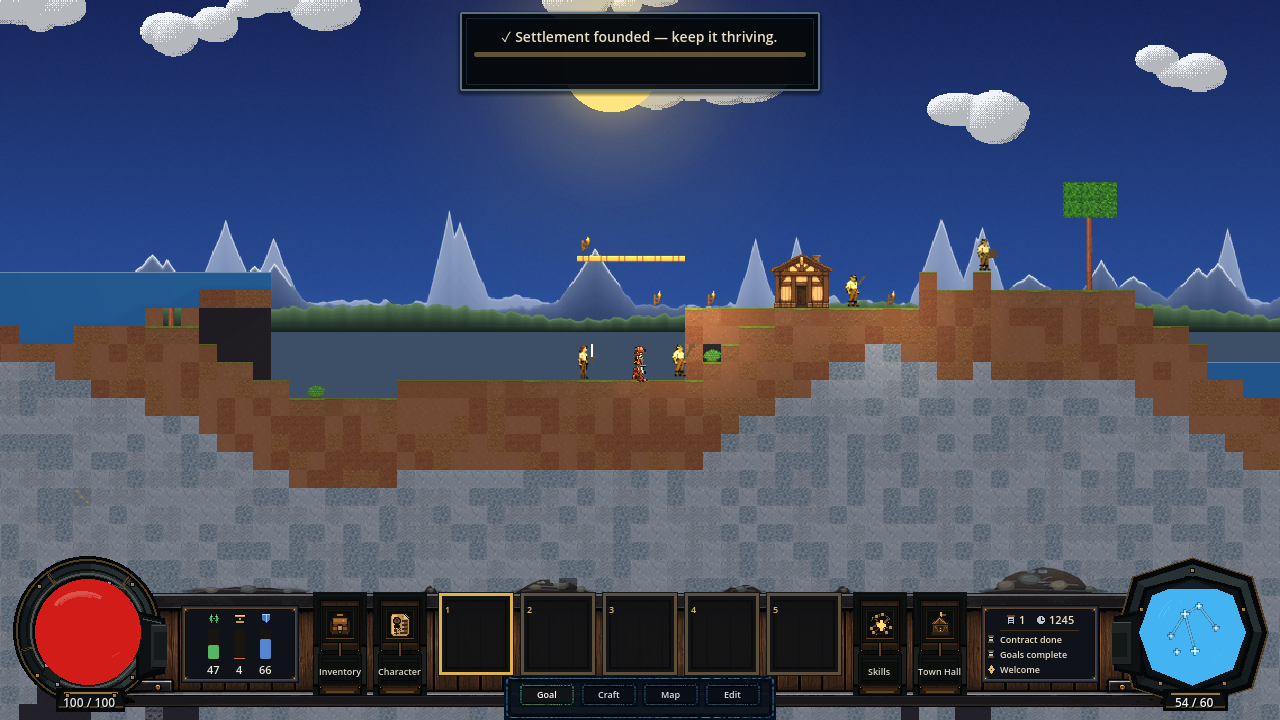
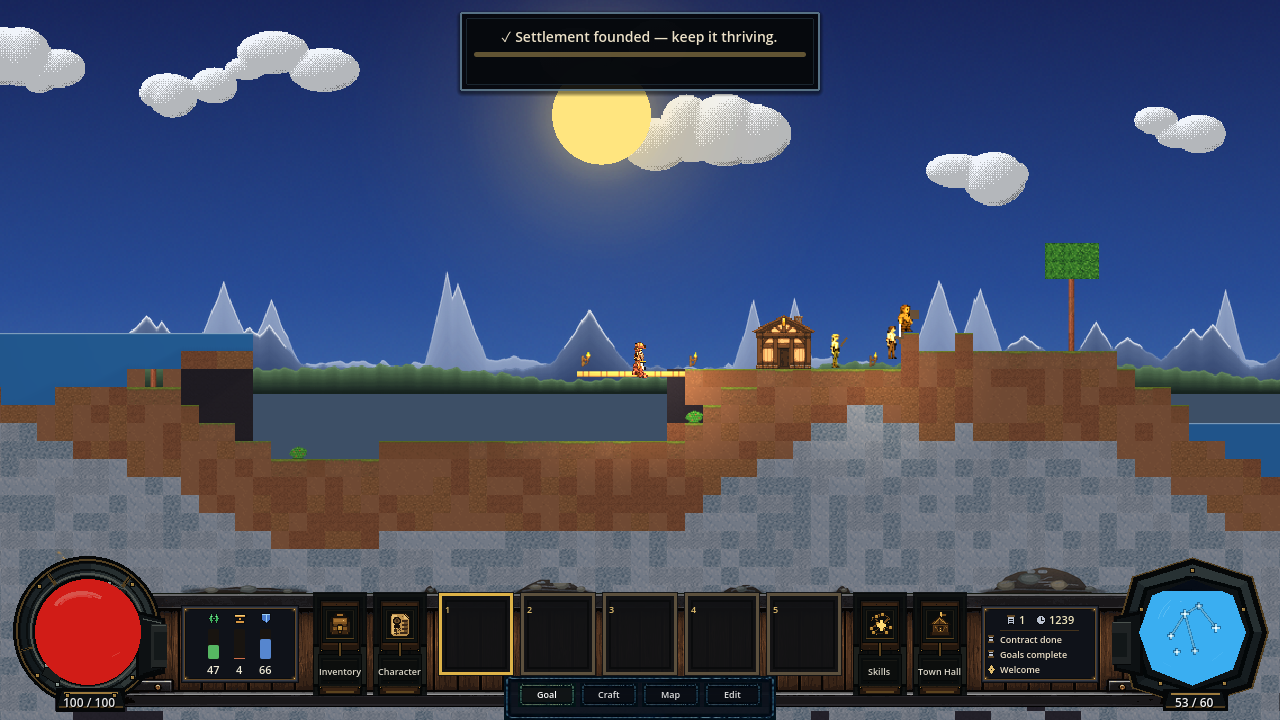
docs: remove stale HUD media and tighten closeout evidence (slice 5.1)
Media-hygiene follow-up to the slice 5 closeout. Documentation/media only —
no gameplay, balance, crafting, save, or world code changes.

- Delete the obsolete orphan screenshot 43_dock_no_persistent_summary.png
  (and its tracked .import). It has no consumer or tour generator and still
  depicts interfaces that no longer exist (floating Crest/Events, the old
  three-button tray, the contextual Town Hall popup).
- Correct the perception-flake known-issues entry: it is a rare intermittent
  assertion failure in the windowed source smoke whose exact entity-level cause
  is unresolved; the check now emits a per-entity SMOKE_FIELD_BREAKDOWN on
  failure, and no matching player-visible fog-of-war or Resonance regression has
  been reproduced. Drops the earlier unproven "freed/re-hidden a frame early"
  root-cause phrasing. Wiki HTML mirror regenerated from the Markdown authority.
- Remove the redundant published craft screenshot 15b_craft_from_button.png and
  its README row: it is effectively the same composition as 15_crafting.png, and
  a static image cannot prove which input opened the panel (r07_craft_command_chip
  is the real evidence). 15_crafting.png stays canonical; the focused QA tour may
  still emit local craft_from_button_* evidence.
- Regenerate 38_wooden_platform.png with a clearer composition: the player stands
  on a torch-lit plank bridging a dug gap (reads as an intentional walkway, not a
[…]

diff --git a/docs/wiki/known_issues.html b/docs/wiki/known_issues.html
@@ -58,7 +58,7 @@
 <h2 id="active-presentation-defects">Active Presentation Defects</h2>
 <div class="table-wrap"><table><thead><tr><th>Surface</th><th>Current behavior</th><th>Gameplay impact</th><th>Next work</th></tr></thead><tbody><tr><td>Pick/axe/sword swing art</td><td>PR-04 gave every tool/weapon a data-driven windup-&gt;impact-&gt;recovery swing aimed at the target (up/down/diagonal). S-07.1b added a generated <strong>sword swing family</strong> (F10, all four sword tiers across every species/variant/phase via <code>scripts/art/gen_tool_swing_frames.py</code>, guarded by <code>s07_sword_swing_frames_authored</code>) so the sword renders authored overlay frames like pick/axe, plus a swing-arc strike FX (guarded by <code>s07_swing_arc_fx</code>) and a modal-scrim taste knob (<code>s07_scrim_strength_knob</code>). The pick/axe swing PNGs remain hand-authored three-phase frames.</td><td>Mining and combat timing are unchanged; any remaining gap is art fidelity, not motion logic.</td><td>Optional: further polish the hand-authored pick/axe frames; the code contract (<code>action_profile</code>, <code>swing_direction</code>) already consumes authored overlays.</td></tr><tr><td>HUD and framed-panel chrome</td><td>The primary dock geometry is stable and runtime content is separated, but current chrome remains provisional. Some framed panel states and automated captures can expose padding, mask, or oversized opaque-region defects. (S-07.1 resolved the modal case: opening a modal now freezes non-modal gameplay input, suppresses the placement-preview ghost, and dims the rest of the HUD behind a scrim.)</td><td>Controls remain functional; affected non-modal views can still look unfinished.</td><td>Replace dock assets through the HUD Asset Replacement Studio; inspect every open-panel combination at target window sizes.</td></tr><tr><td>Calling skill panel</td><td>As of 2026-08-18 the panel is a <strong>constellation star-map</strong>: each skill is a clickable star placed by tier and joined into per-Path constellations (owned stars glow, the next-available ones twinkle, locked stars dim); clicking a star opens the same player-language inspector + Learn button. The earlier no-horizontal-scroll contract still holds (<code>s07_calling_panel_no_hscroll</code>; <code>content_h_scroll_disabled</code>). Inspector text can still read dense.</td><td>Cosmetic; the panel is fully usable and gating/purchase are correct.</td><td>A UI polish pass over inspector text density.</td></tr><tr><td>Character creation at 640×360</td><td>S-07.1b (F9) shipped a responsive compact layout: on a small physical window the shell raises logical type above a documented floor, tightens margins/rows, reflows the live preview beside the form, disables horizontal scroll, and pins Create/Back outside the vertical scroll — while the 1280×720 presentation is unchanged. Guarded by <code>s07_char_create_640_legibility_contract</code>.</td><td>The screen is legible and operable at the small size.</td><td>Resolved; only optional cosmetic refinement remains.</td></tr><tr><td>Town Hall panel</td><td>S-07.1 trimmed the inline instructions, reserved roster height, and reordered the roster above the stockpile/actions. Some settler-roster content can still read busy at small sizes.</td><td>Controls work; the panel is clearer than before.</td><td>Continue density/legibility polish at target window sizes.</td></tr><tr><td>Swing / action-FX art</td><td>Pick/axe/sword swings play a data-driven windup→impact→recovery aimed at the target, now joined by a swing-arc strike FX. The sword has a generated swing family (F10, all species); pick/axe swing frames stay hand-authored.</td><td>Mining/combat timing is unchanged; the gap is art fidelity, not motion logic.</td><td>Optional pick/axe frame polish (D4 art lane); the code contract already consumes authored overlays.</td></tr><tr><td>Light leak through diagonal block seams</td><td>With the perception veil on (the default <code>fog_of_war</code> world rule; also <code>COHERONIA_PERCEPTION=1</code>), underground scenes show <strong>daylight and torch light leaking through 1×1 diagonal block gaps</strong>. This is not the terrain veil — that samples the visibility mask per cell with <code>filter_nearest</code> and is crisp — but the underlying 2D lighting: the sun/moon shadow occluders are per-cell squares that touch only at their corners (so a diagonal seam passes a sliver of daylight), and torches/lava are intentionally <strong>shadowless</strong> (they glow *through* rock so a torch carved into a wall does not self-occlude). The brighter/wider torch + lava tuning made the pre-existing leak more visible.</td><td>Cosmetic; perception/visibility state and gameplay are unaffected.</td><td>Diagonal-corner occluder bridging for the celestial shadows, and/or a selective shadow pass for local emitters; deferred (Perception + Resonance follow-up).</td></tr></tbody></table></div>
 <h2 id="intentional-current-limits">Intentional Current Limits</h2>
-<ul><li>Inventory supports drag-and-drop backpack and dock organization, compatible equipment swaps, and unequipping equipment back to the backpack. The in-engine smoke suite (hundreds of checks) is clean under the <strong>canonical windowed run</strong>; CI is the current pass/fail evidence. (One check, <code>r06_texture_prep_delegates</code>, is renderer-dependent and is skipped under the *headless* display server — a texture-scaling detail with no window — so a headless run reports one skip and no failures.)</li><li>The end-to-end perception check <strong><code>perception_resonance_e2e_through_fog</code></strong> is a known <strong>rare intermittent</strong> under the windowed source smoke: it can transiently report an enemy-visibility miss (a staged entity freed or re-hidden a frame early) and passes on a clean re-run. It is <strong>diagnostic-only</strong> — on failure it emits a per-entity <code>SMOKE_FIELD_BREAKDOWN</code> line — and does not indicate a fog-of-war or Resonance regression. Tracked as known; not claimed fixed.</li><li>Settlers are now individual, persistent NPC workers (farmhand/hauler/repairer/defender) with jobs, stats, ancestry identity, and per-settler work zones, layered over the abstract population authority; deeper social simulation is still planned.</li><li>Enemies use direct walk-and-hop behavior without pathfinding.</li><li>The adaptive score is one authored suite and remains balance-in-progress.</li><li><strong>Calling skills are functional but unbalanced and mechanically compressed.</strong> Every one of the 72 skills is wired to a real hook, but to reach full coverage without new subsystems the harder specified effects were re-themed onto existing scalar channels — so some Paths repeat a channel (e.g. Hearthwright is mostly repair-strength + build-reach; Vanguard is mostly weapon damage), and several names (Executioner, Counterforce, Steel Rhythm, Coordinated Labor, Salvager) no longer match their original flavor. The percentages are also <strong>untuned</strong>: full conditional stacking can reach roughly 4–5× on some channels. This is a known design variance to be resolved by playtesting and value tuning (no new mechanisms), not a correctness defect.</li><li>Current finite maps provide one surface biome; deeper biome/system expansion remains planned work.</li></ul>
+<ul><li>Inventory supports drag-and-drop backpack and dock organization, compatible equipment swaps, and unequipping equipment back to the backpack. The in-engine smoke suite (hundreds of checks) is clean under the <strong>canonical windowed run</strong>; CI is the current pass/fail evidence. (One check, <code>r06_texture_prep_delegates</code>, is renderer-dependent and is skipped under the *headless* display server — a texture-scaling detail with no window — so a headless run reports one skip and no failures.)</li><li>The end-to-end perception check <strong><code>perception_resonance_e2e_through_fog</code></strong> is a known <strong>rare intermittent assertion failure</strong> in the windowed source smoke: it fails occasionally and passes on a clean re-run. The exact entity-level cause is <strong>unresolved</strong> — on failure the check now emits a per-entity <code>SMOKE_FIELD_BREAKDOWN</code> line to aid diagnosis. No matching <strong>player-visible</strong> fog-of-war or Resonance regression has been reproduced. Tracked as known; <strong>not claimed fixed</strong>.</li><li>Settlers are now individual, persistent NPC workers (farmhand/hauler/repairer/defender) with jobs, stats, ancestry identity, and per-settler work zones, layered over the abstract population authority; deeper social simulation is still planned.</li><li>Enemies use direct walk-and-hop behavior without pathfinding.</li><li>The adaptive score is one authored suite and remains balance-in-progress.</li><li><strong>Calling skills are functional but unbalanced and mechanically compressed.</strong> Every one of the 72 skills is wired to a real hook, but to reach full coverage without new subsystems the harder specified effects were re-themed onto existing scalar channels — so some Paths repeat a channel (e.g. Hearthwright is mostly repair-strength + build-reach; Vanguard is mostly weapon damage), and several names (Executioner, Counterforce, Steel Rhythm, Coordinated Labor, Salvager) no longer match their original flavor. The percentages are also <strong>untuned</strong>: full conditional stacking can reach roughly 4–5× on some channels. This is a known design variance to be resolved by playtesting and value tuning (no new mechanisms), not a correctness defect.</li><li>Current finite maps provide one surface biome; deeper biome/system expansion remains planned work.</li></ul>
 <h2 id="resolved-underground-lighting-dark-from-the-surface-2026-08-04">Resolved — Underground Lighting (dark-from-the-surface) — 2026-08-04</h2>
 <p><strong>What it was.</strong> Standing on the surface with the sun up and looking at a mined shaft or cross-section, the underground read <strong>lit</strong> (~100/255 grey rock) instead of dark. The cause was that darkness was a single <strong>global <code>CanvasModulate</code></strong> keyed to the <strong>player&#x27;s</strong> depth: while the player stood on the surface the *entire* canvas — any underground on screen included — was tinted at full daylight, and it only darkened once the *player* descended. It was the ambient model being global, not a light leak.</p>
 <p><strong>Fix (per-column depth shader).</strong> The recommended <code>sky_line</code>/<code>CAVE_FADE_CELLS</code> path was taken (<code>shaders/cave_depth.gdshader</code>). A <code>canvas_item</code> shader now darkens <strong>each fragment</strong> toward <code>CAVE_TINT</code> by *its own* depth below the local sky line, minus the viewer&#x27;s own depth factor — so it only *adds* the darkening the global tint has not already applied at or above the viewer. On the surface the whole underground reads dark; once the player descends the shader contributes nothing extra at the viewer&#x27;s depth (the global tint already handles it), so there is <strong>no double-dimming and no behaviour change for entities</strong>. The depth darkening is <strong>ambient only</strong>: the shader&#x27;s <code>fragment()</code> dims the unlit base, but a matching <code>light()</code> illuminates each tile&#x27;s <strong>true albedo</strong> (the texture, before the depth dim), so a torch/lava/celestial <code>PointLight2D</code> brightens a deep tile <strong>fully regardless of the viewer&#x27;s depth</strong> — a lit pocket below the player, or an underground torch seen from a cave mouth, still reads. (An earlier version had only the <code>fragment()</code> half, so the darkened <code>COLOR</code> also multiplied the light down and suppressed it — see the follow-up below.)</p>

diff --git a/README.md b/README.md
@@ -93,7 +93,7 @@ The in-game **Goals** panel (**O**) walks you through all **seven** objectives f
 | ![A visible farmhand settler harvesting a row of ripe crops](docs/screenshots/16_farmhand.png)<br>*A visible farmhand works the land and stocks the larder* | ![The settler info panel showing name, role, days alive, and stats](docs/screenshots/37_settler_panel.png)<br>*Click any settler to see its name, ancestry, job, and stats* |
 | ![The redesigned responsive crafting recipe-book](docs/screenshots/15_crafting.png)<br>*Open crafting with the **Craft** tray button or **C** — icon-led recipe cards across Hand · Town Hall · Workbench · Furnace · Anvil, with a pinned Craft/Build action* | ![The inventory board with loadout, backpack, and dock](docs/screenshots/03_inventory.png)<br>*Open the inventory with **I** — drag and drop stacks, gear, and the hotbar dock* |
 | ![The Calling skill tree drawn as a clickable star constellation](docs/screenshots/05_skill_tree.png)<br>*Your **Calling** (**K**) — a constellation of tiered skills you click star-by-star, every one wired to a real effect* | ![World creation with size, seed, preset, and rule controls](docs/screenshots/08_world_create.png)<br>*Create a world — size, seed, preset, difficulty, and rule toggles* |
-| ![The crafting panel opened from the Craft command-tray chip](docs/screenshots/15b_craft_from_button.png)<br>*The centered command tray — **Goal · Craft · Map · Edit** — opens Crafting with a click, no shortcut needed* | ![A raised, torch-lit wooden platform walkway in the world](docs/screenshots/38_wooden_platform.png)<br>*The craftable **Wooden Platform** — a one-way plank you jump up through and walk across* |
+| ![The player standing on a wooden platform bridging a gap beside the hall](docs/screenshots/38_wooden_platform.png)<br>*The craftable **Wooden Platform** — a one-way plank you jump up through and walk across* | ![Full-height three-tall doors in a settlement wall](docs/screenshots/34_tall_doors.png)<br>*Full-height doors seal a walled room to raise settlement housing* |
 | ![Underground, a lit room surrounded by the fog-of-war veil](docs/screenshots/40_perception_veil.png)<br>*Fog of war — you see only what's in line of sight; explored terrain lingers as a dim silhouette* | ![A resonance pulse lighting up the town hall and settlers in green across the settlement](docs/screenshots/41_resonance_pulse.png)<br>*The Attunement resonance pulse (**R**) lights up objects of interest — hall & settlers green, enemies red, ore/items gold — with a countdown on the status HUD* |
 
 ### What you can do
@@ -265,7 +265,7 @@ Coheronia is an experiment in disciplined, AI-orchestrated development — every
 
 Dated shipped milestones, newest first (full detail in [`docs/HANDOFF.md`](docs/HANDOFF.md)):
 
-- **2026-08-28 — Crafting recipe-book redesign, Craft in the command tray, and a media/docs closeout.** The unified crafting panel is rebuilt as a **responsive recipe-book**: icon-led recipe cards showing only **Ready / Missing / Locked** on their face (the full shortage list lives in the detail pane and tooltip), and a detail pane that is a single scrolling column above a **pinned Craft/Build action** — so the button, and the panel's own footer, stay on-screen and usable from a full **1280×720** down to a **640×360** viewport. Station navigation spans **Hand · Town Hall · Workbench · Furnace · Anvil**, with Build cards for unbuilt stations. Crafting is now a first-class, discoverable action: the centered command tray reads **Goal · Craft · Map · Edit**, and the new **Craft** chip opens the same panel as the **C** shortcut through one shared toggle — its pressed state tracks every close route (chip, C, Escape, Close). A craftable **Wooden Platform** joins the ladder — a one-way traversal plank you jump up through and stand on. Plus an authored **−12 dB Music-bus calibration** trim and an inventory **dock zero-count reconciliation**. Docs and every gameplay screenshot regenerated against the four-button tray. Windowed source smoke **604/604**, Windows export smoke **598/598**, full verifier gate green. (The rare `perception_resonance_e2e_through_fog` check remains a **known intermittent**, tracked with a per-entity failure breakdown — not fixed here.)
+- **2026-08-28 — Crafting recipe-book redesign, Craft in the command tray, and a media/docs closeout.** The unified crafting panel is rebuilt as a **responsive recipe-book**: icon-led recipe cards showing only **Ready / Missing / Locked** on their face (the full shortage list lives in the detail pane and tooltip), and a detail pane that is a single scrolling column above a **pinned Craft/Build action** — so the button, and the panel's own footer, stay on-screen and usable from a full **1280×720** down to a **640×360** viewport. Station navigation spans **Hand · Town Hall · Workbench · Furnace · Anvil**, with Build cards for unbuilt stations. Crafting is now a first-class, discoverable action: the centered command tray reads **Goal · Craft · Map · Edit**, and the new **Craft** chip opens the same panel as the **C** shortcut through one shared toggle — its pressed state tracks every close route (chip, C, Escape, Close). A craftable **Wooden Platform** joins the ladder — a one-way traversal plank you jump up through and stand on. Plus an authored **−12 dB Music-bus calibration** trim and an inventory **dock zero-count reconciliation**. The published HUD and gameplay gallery was refreshed against the current four-button tray. Windowed source smoke **604/604**, Windows export smoke **598/598**, full verifier gate green. (The rare `perception_resonance_e2e_through_fog` check remains a **known intermittent**, tracked with a per-entity failure breakdown — not fixed here.)
 - **2026-08-26 — HUD Phase C: dock-wing Crest & Events, compact command tray.** The **Crest** and **Events** readouts are now built into the two wooden dock wings instead of floating over the world. The **left wing** shows the three settlement pressures as **vertical instrument gauges** in a recessed brass socket — Coherence, Load, and Resilience, each with an authored metric icon, a bottom-to-top fill, and its exact value. The **right wing** is a compact **journal**: an icon+value header (`[journal] Day  ·  [clock] HHMM` military time) over the **three most-recent events**, each led by an authored category icon (raids, storms, dawn/nightfall, arrivals, construction, goals…) and a concise summary; clicking a wing opens the full detail, and one paired record keeps the complete history. The module toolbar is trimmed to hug **Goal / Map / Edit**. The old **top-right contextual popups are gone** entirely — no more "Dirt ×0" selected-item toast, "[E] Town Hall" prompt, "Game saved" toast, or "+N Item" pickup toast; the hotbar, inventory, docked journal, and pause menu already carry that information. All gameplay screenshots regenerated against the docked HUD. Source smoke **582/582**; Linux + Windows CI (the rare `perception_resonance_e2e_through_fog` check is a known intermittent, tracked with a per-entity failure breakdown).
 - **2026-08-20 — Perception veil + Attunement resonance.** A new **fog of war** (world rule `fog_of_war`, **on by default**, unchecked in world settings to disable). A tile-aligned **360° line-of-sight** model (recursive shadowcasting, `scripts/world/perception.gd`) grades every cell into *visible* (full render), *remembered* (a dim, desaturated silhouette of terrain you've seen — persisted per world), or *unseen* (a near-black veil), rendered by the shared cave shader with a soft radial sight rim; creatures, loose items, and live effects need **current** sight. Sight range is a composable resolver — a day/night base **plus a dark-adapted "dark sight"** bonus some ancestries keep underground, with gear/weather/Calling hooks reserved. The formerly-inert Attunement pulse (**R**) becomes a **resonance ping**: it lights up every object of interest on screen — enemies (red), settlers & town hall (green), items/ore (gold), doors/stations (cyan), liquid hazards (amber) — *through* the veil and out of sight, via a silhouette-masked recolor shader for creatures and a batched additive fill for terrain, all fading over a ~10 s countdown shown on a new **status-effect HUD** element. Windowed smoke **568/568**. (Known limit: sun/torch light still leaks through 1×1 diagonal block seams — a pre-existing 2D-lighting detail, not the veil.)
 - **2026-08-19 — Atmospheric biome backdrop + softer lighting.** Replaced the flat scenic backdrop with a **data-driven, biome-aware parallax sky** and toned down harsh 2D lighting. A new procedural generator (`scripts/art/gen_backgrounds.py`, numpy/Pillow, palettes sampled from the prologue) authors each biome's layers — a graded sky with a horizon glow, **chunky pixel-art cumulus clouds** (elliptical, dithered volume shading lit from overhead), and stacked **angular snow-capped mountain ranges** with atmospheric perspective and a dithered pixel treatment shared across mountains, treeline, and clouds. Layers scroll at independent, whole-pixel parallax (no jitter) and use wide, mismatched tiling periods so repetition isn't visible. The whole thing is defined in **`data/biomes.json`** (`world_backdrop.gd` renders it; the validator and asset audit are biome-driven), so new biomes are a data entry plus art — the structure ships now with one `surface` biome. **Lighting:** torch/lantern, lava, and the sun's broad daytime pool were softened (and the glow core eased) so lights no longer blow out the stone and characters next to them; and the **sun/moon now render in the world canvas behind terrain** (occluded by blocks, still bright via an ambient un-tint) instead of drawing over everything. Windowed smoke **559/559**.

diff --git a/docs/wiki/known_issues.md b/docs/wiki/known_issues.md
@@ -19,7 +19,7 @@ This page separates confirmed presentation defects from intentional scope limits
 ## Intentional Current Limits
 
 - Inventory supports drag-and-drop backpack and dock organization, compatible equipment swaps, and unequipping equipment back to the backpack. The in-engine smoke suite (hundreds of checks) is clean under the **canonical windowed run**; CI is the current pass/fail evidence. (One check, `r06_texture_prep_delegates`, is renderer-dependent and is skipped under the *headless* display server — a texture-scaling detail with no window — so a headless run reports one skip and no failures.)
-- The end-to-end perception check **`perception_resonance_e2e_through_fog`** is a known **rare intermittent** under the windowed source smoke: it can transiently report an enemy-visibility miss (a staged entity freed or re-hidden a frame early) and passes on a clean re-run. It is **diagnostic-only** — on failure it emits a per-entity `SMOKE_FIELD_BREAKDOWN` line — and does not indicate a fog-of-war or Resonance regression. Tracked as known; not claimed fixed.
+- The end-to-end perception check **`perception_resonance_e2e_through_fog`** is a known **rare intermittent assertion failure** in the windowed source smoke: it fails occasionally and passes on a clean re-run. The exact entity-level cause is **unresolved** — on failure the check now emits a per-entity `SMOKE_FIELD_BREAKDOWN` line to aid diagnosis. No matching **player-visible** fog-of-war or Resonance regression has been reproduced. Tracked as known; **not claimed fixed**.
 - Settlers are now individual, persistent NPC workers (farmhand/hauler/repairer/defender) with jobs, stats, ancestry identity, and per-settler work zones, layered over the abstract population authority; deeper social simulation is still planned.
 - Enemies use direct walk-and-hop behavior without pathfinding.
 - The adaptive score is one authored suite and remains balance-in-progress.
